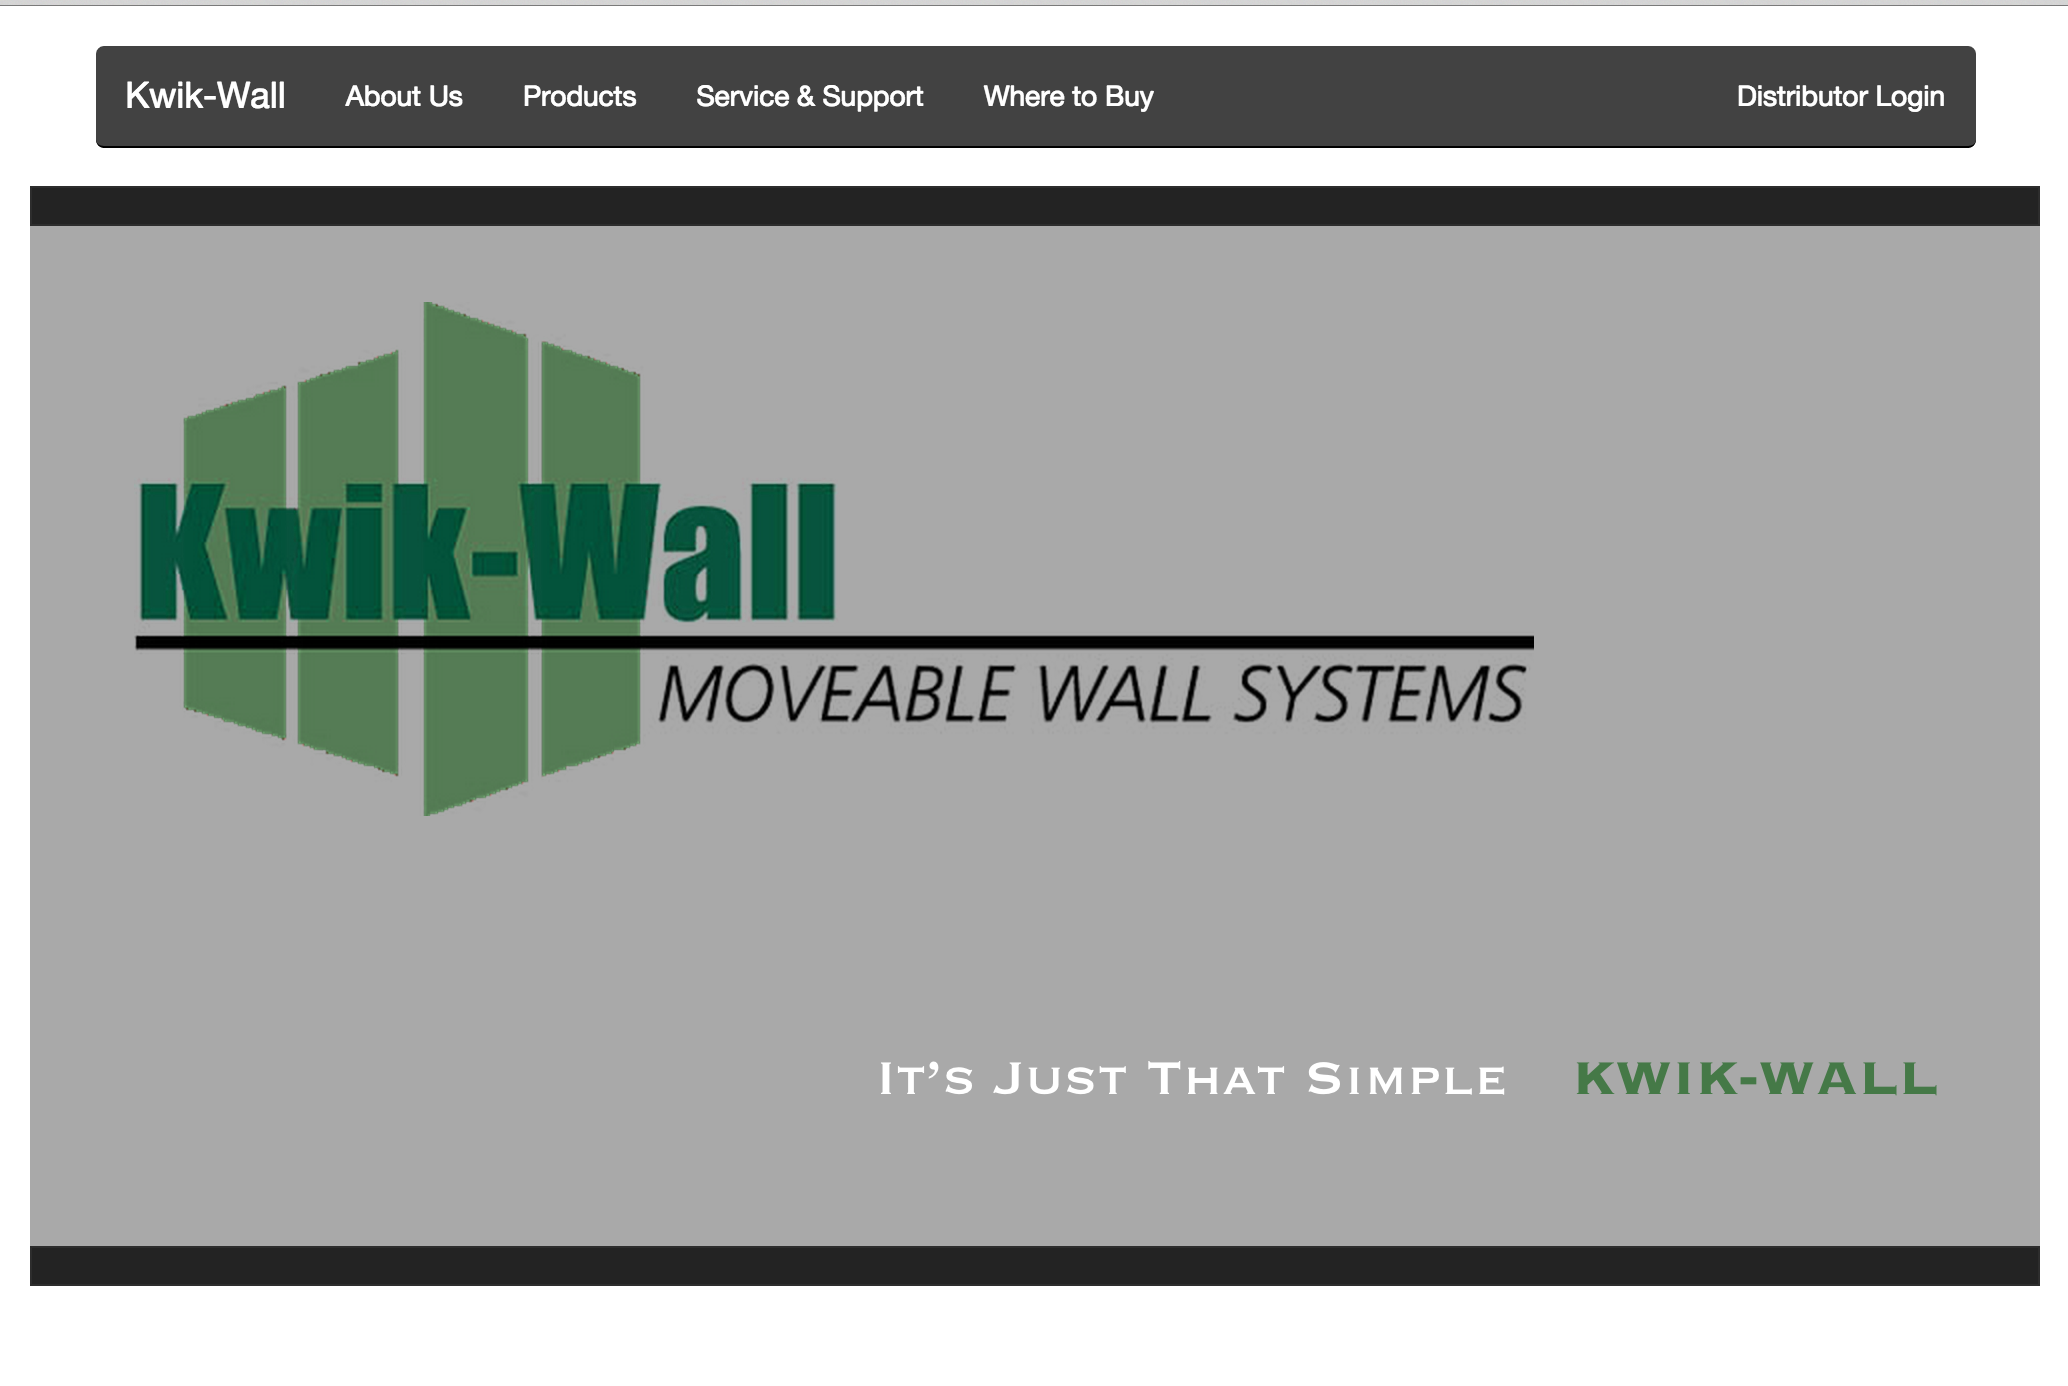
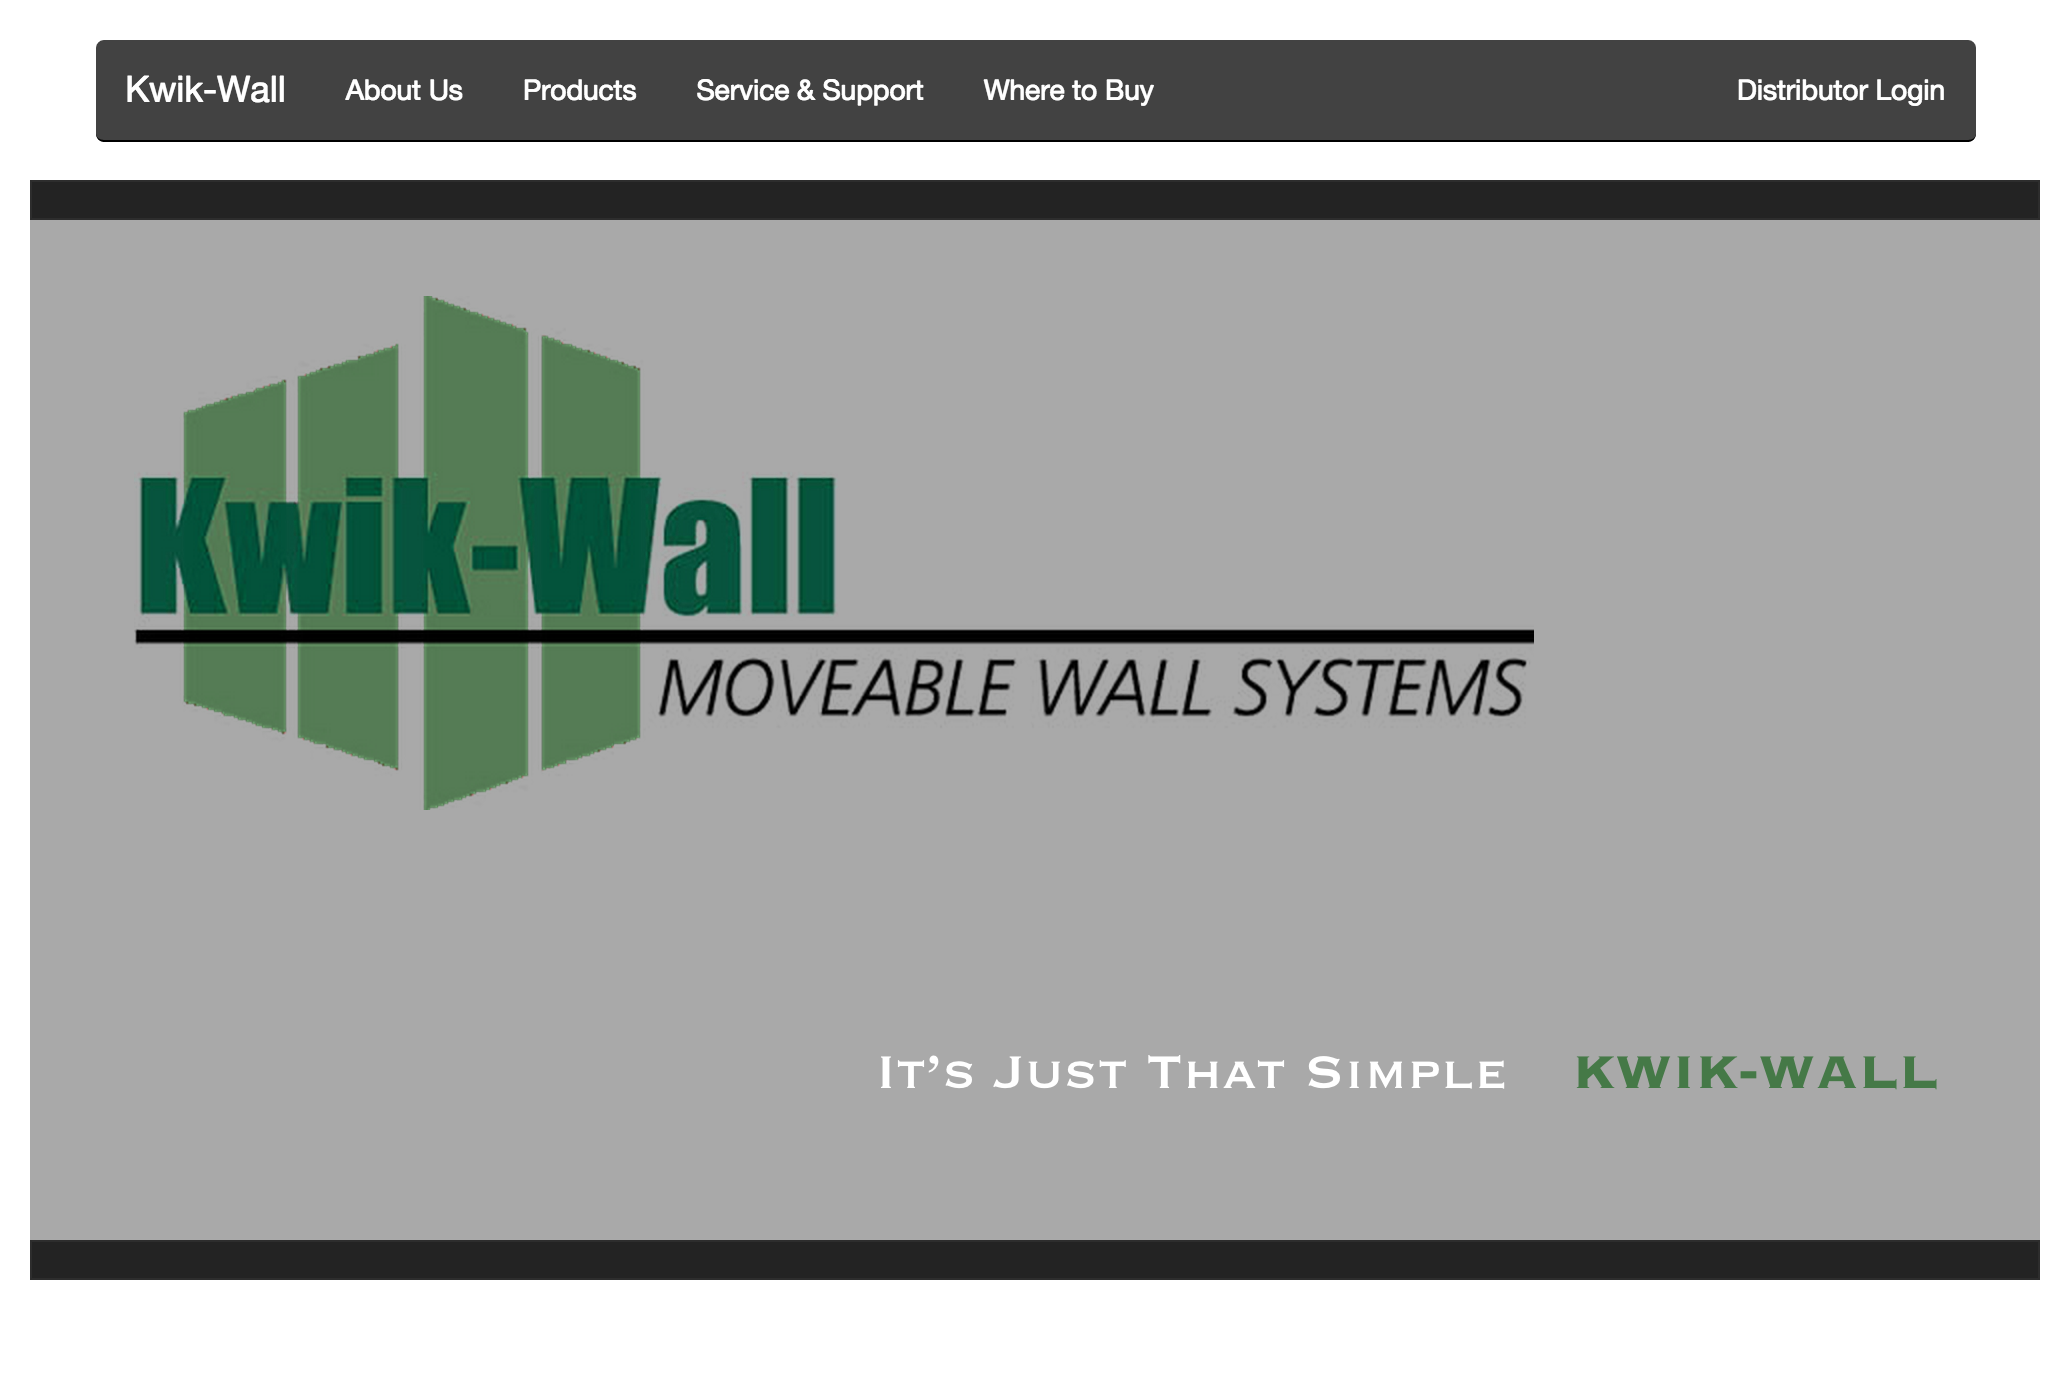
messed with project showcase

diff --git a/index.html b/index.html
@@ -110,23 +110,23 @@
         <div class=" container projects">
             <div class="row text-center">
                 <h2 class="projects-title">My Projects</h2>
-                <div class="col-md-offset-2 col-md-4 col-sm-6">
+                <div class="col-md-offset-2 col-md-4 col-sm-6 projects-desciption">
                     <h3>JaneMarieDavis.com</h3>
                     <p>A personal portfolio site for Jane Marie Davis. A Stage Manger based in NYC</p>
                 </div>
                 <div class="col-md-6 col-sm-6">
-                    <a href="http://janemariedavis.com"><img class="img-responsive projects-images fade" src="Pictures/JaneMarieDavis.png"></a>
+                    <a href="http://janemariedavis.com"><img class="img-responsive projects-images fade" src="Pictures/JaneMaireDavis-sample.png"></a>
                 </div>
-
             </div>
             <div class="projects-pad"></div>
             <div class="row text-center">
-                <div class="col-md-offset-2 col-md-4 col-sm-6">
+
+                <div class="col-md-6 col-sm-6">
+                    <a href="http://kwik-wall.herokuapp.com/"><img class="img-responsive projects-images fade" src="Pictures/KWIK-Wall-sample.png"></a>
+                </div>
+                <div class="col-md-4 col-sm-6 projects-desciption">
                     <h3>KWIK-Wall</h3>
                     <p>A personal project in design and learning html and css. I tried to redesign <a  style="text: #006600" href="http://kwik-wall.com">KWIK-Wall.com</a>.</p>
-                </div>
-                <div class="col-md-6 col-sm-6">
-                    <a href="http://kwik-wall.herokuapp.com/"><img class="img-responsive projects-images fade" src="Pictures/KWIK-Wall.png"></a>
                 </div>
 
             </div>

diff --git a/css/nathan.css b/css/nathan.css
@@ -302,7 +302,7 @@ header {
 
 
 header .intro-text {
-    padding-top: 100px;
+    padding-top: 200px;
     padding-bottom: 50px;
 }
 
@@ -377,6 +377,8 @@ header .intro-text .intro-heading {
 
 
 .projects-images {
+    height: 300px;
+    /*
     margin-left: auto;
     margin-right: auto;
     width: 300px;
@@ -384,6 +386,12 @@ header .intro-text .intro-heading {
     border: 7px solid #d3edd3;
     text-align: center;
     color: #fff;
+    */
+
+}
+
+.projects-desciption {
+    text-align: left;
 
 }
 .projects-pad {
@@ -393,7 +401,7 @@ header .intro-text .intro-heading {
 }
 
 .projects-title{
-    padding-bottom: 20px;
+    padding-bottom: 50px;
     text: #006600;
 
 }
